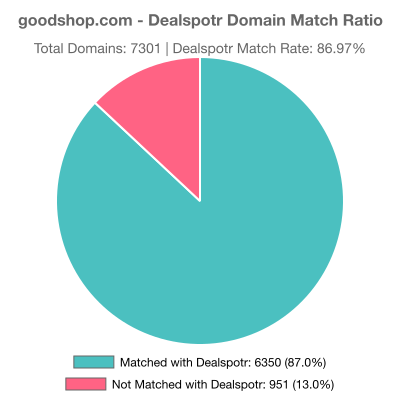
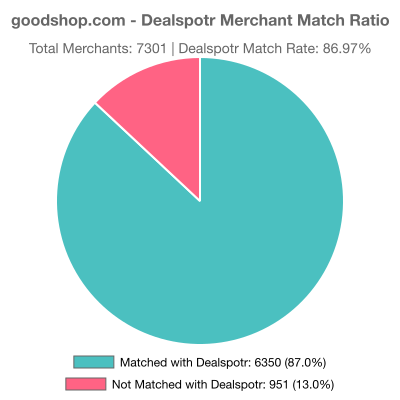
chart title update
domain match -> merchant match

Changed region(s): [[0.03, 0.03, 0.99, 0.15]]

diff --git a/src/generateCharts.ts b/src/generateCharts.ts
@@ -16,16 +16,16 @@ interface AnalysisResult {
 }
 
 /**
- * Generates a pie chart for a competitor showing the ratio of matched to not matched domains
+ * Generates a pie chart for a competitor showing the ratio of matched to not matched merchants
  */
 async function generatePieChart(
   competitor: CompetitorOverlap,
   outputDir: string
 ): Promise<void> {
-  // Skip if no domains
+  // Skip if no merchants
   if (competitor.totalDomains === 0) {
     console.log(
-      `Skipping chart for ${competitor.competitorName} - no domains found`
+      `Skipping chart for ${competitor.competitorName} - no merchants found`
     );
     return;
   }
@@ -59,14 +59,14 @@ async function generatePieChart(
       plugins: {
         title: {
           display: true,
-          text: `${competitor.competitorName} - Dealspotr Domain Match Ratio`,
+          text: `${competitor.competitorName} - Dealspotr Merchant Match Ratio`,
           font: {
             size: 16,
           },
         },
         subtitle: {
           display: true,
-          text: `Total Domains: ${
+          text: `Total Merchants: ${
             competitor.totalDomains
           } | Dealspotr Match Rate: ${competitor.overlapPercentage.toFixed(
             2
@@ -140,7 +140,7 @@ async function generateSummaryChart(
     return;
   }
 
-  // Filter out competitors with no domains
+  // Filter out competitors with no merchants
   const validCompetitors = analysisResult.competitors
     .filter((comp) => comp.totalDomains > 0)
     .sort((a, b) => b.overlapPercentage - a.overlapPercentage);
@@ -187,14 +187,14 @@ async function generateSummaryChart(
       plugins: {
         title: {
           display: true,
-          text: "Dealspotr Domain Overlap by Competitor",
+          text: "Dealspotr Merchant Overlap by Competitor",
           font: {
             size: 18,
           },
         },
         subtitle: {
           display: true,
-          text: `Dealspotr Total Domains: ${analysisResult.dealsptrDomainsCount}`,
+          text: `Dealspotr Total Merchants: ${analysisResult.dealsptrDomainsCount}`,
           font: {
             size: 14,
           },
@@ -229,7 +229,7 @@ async function generateSummaryChart(
           beginAtZero: true,
           title: {
             display: true,
-            text: "Number of Domains",
+            text: "Number of Merchants",
           },
         },
       },
@@ -305,14 +305,14 @@ async function generatePercentageSummaryChart(
       plugins: {
         title: {
           display: true,
-          text: "Dealspotr Domain Overlap Percentage by Competitor",
+          text: "Dealspotr Merchant Overlap Percentage by Competitor",
           font: {
             size: 18,
           },
         },
         subtitle: {
           display: true,
-          text: `Dealspotr Total Domains: ${dealsptrDomainCount}`,
+          text: `Dealspotr Total Merchants: ${dealsptrDomainCount}`,
           font: {
             size: 14,
           },
@@ -331,7 +331,7 @@ async function generatePercentageSummaryChart(
                 (c) => c.competitorName === competitorName
               );
               if (competitor) {
-                return `Total Domains: ${competitor.totalDomains}`;
+                return `Total Merchants: ${competitor.totalDomains}`;
               }
               return "";
             },
@@ -395,11 +395,11 @@ async function generateTotalMerchantsChart(
   allCompetitors.push({
     competitorName: "Dealspotr",
     totalDomains: analysisResult.dealsptrDomainsCount,
-    overlappingDomains: analysisResult.dealsptrDomainsCount, // All domains match with itself
+    overlappingDomains: analysisResult.dealsptrDomainsCount, // All merchants match with itself
     overlapPercentage: 100,
   });
 
-  // Sort by total domains in descending order
+  // Sort by total merchants in descending order
   const sortedCompetitors = allCompetitors
     .filter((comp) => comp.totalDomains > 0)
     .sort((a, b) => b.totalDomains - a.totalDomains);
@@ -425,7 +425,7 @@ async function generateTotalMerchantsChart(
       labels: sortedCompetitors.map((comp) => comp.competitorName),
       datasets: [
         {
-          label: "Total Merchant Domains",
+          label: "Total Merchant Sites",
           data: sortedCompetitors.map((comp) => comp.totalDomains),
           backgroundColor: sortedCompetitors.map((comp) =>
             comp.competitorName === "Dealspotr" ? "#6A5ACD" : "#36A2EB"
@@ -441,14 +441,14 @@ async function generateTotalMerchantsChart(
       plugins: {
         title: {
           display: true,
-          text: "Total Merchant Domains by Sitemap Source",
+          text: "Total Merchant Sites by Sitemap Source",
           font: {
             size: 18,
           },
         },
         subtitle: {
           display: true,
-          text: "Comparison of merchant domain counts across all sources",
+          text: "Comparison of merchant site counts across all sources",
           font: {
             size: 14,
           },
@@ -457,7 +457,7 @@ async function generateTotalMerchantsChart(
           callbacks: {
             label: (context: any) => {
               const value = context.raw;
-              return `Domains: ${value.toLocaleString()}`;
+              return `Merchants: ${value.toLocaleString()}`;
             },
           },
         },
@@ -476,7 +476,7 @@ async function generateTotalMerchantsChart(
           beginAtZero: true,
           title: {
             display: true,
-            text: "Number of Domains",
+            text: "Number of Merchants",
           },
           ticks: {
             callback: function (value: any) {
